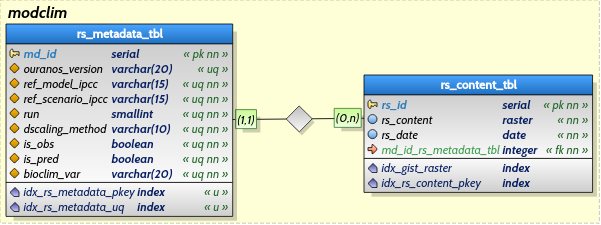
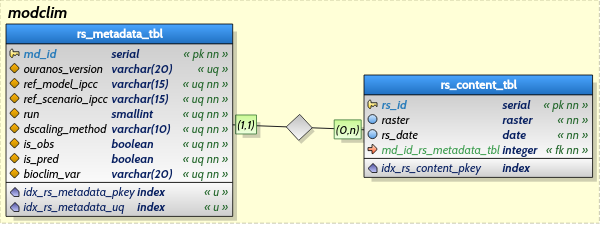
Quick modifs on DB archi

Changed region(s): [[0.599, 0.7156, 1.0, 0.9022], [0.3894, 0.4667, 0.7188, 0.6533]]

diff --git a/imp_rasters_ouranos.py b/imp_rasters_ouranos.py
@@ -326,7 +326,7 @@ for scale_method in ls_scale_methods:
 
 				for climvar in ls_climvars:
 					cur = conn.cursor()
-					cur.execute("INSERT INTO modclim.rs_content_tbl (md_id_rs_metadata_tbl, rs_date, rs_content ) VALUES (%s,%s,%s :: raster)",(str(dict_md_id_vars[climvar]),metadata['date'],dict_hex[climvar]))
+					cur.execute("INSERT INTO modclim.rs_content_tbl (md_id_rs_metadata_tbl, rs_date, raster ) VALUES (%s,%s,%s :: raster)",(str(dict_md_id_vars[climvar]),metadata['date'],dict_hex[climvar]))
 					cur.close()
 				
 				logging.info('RASTER importation done !')
